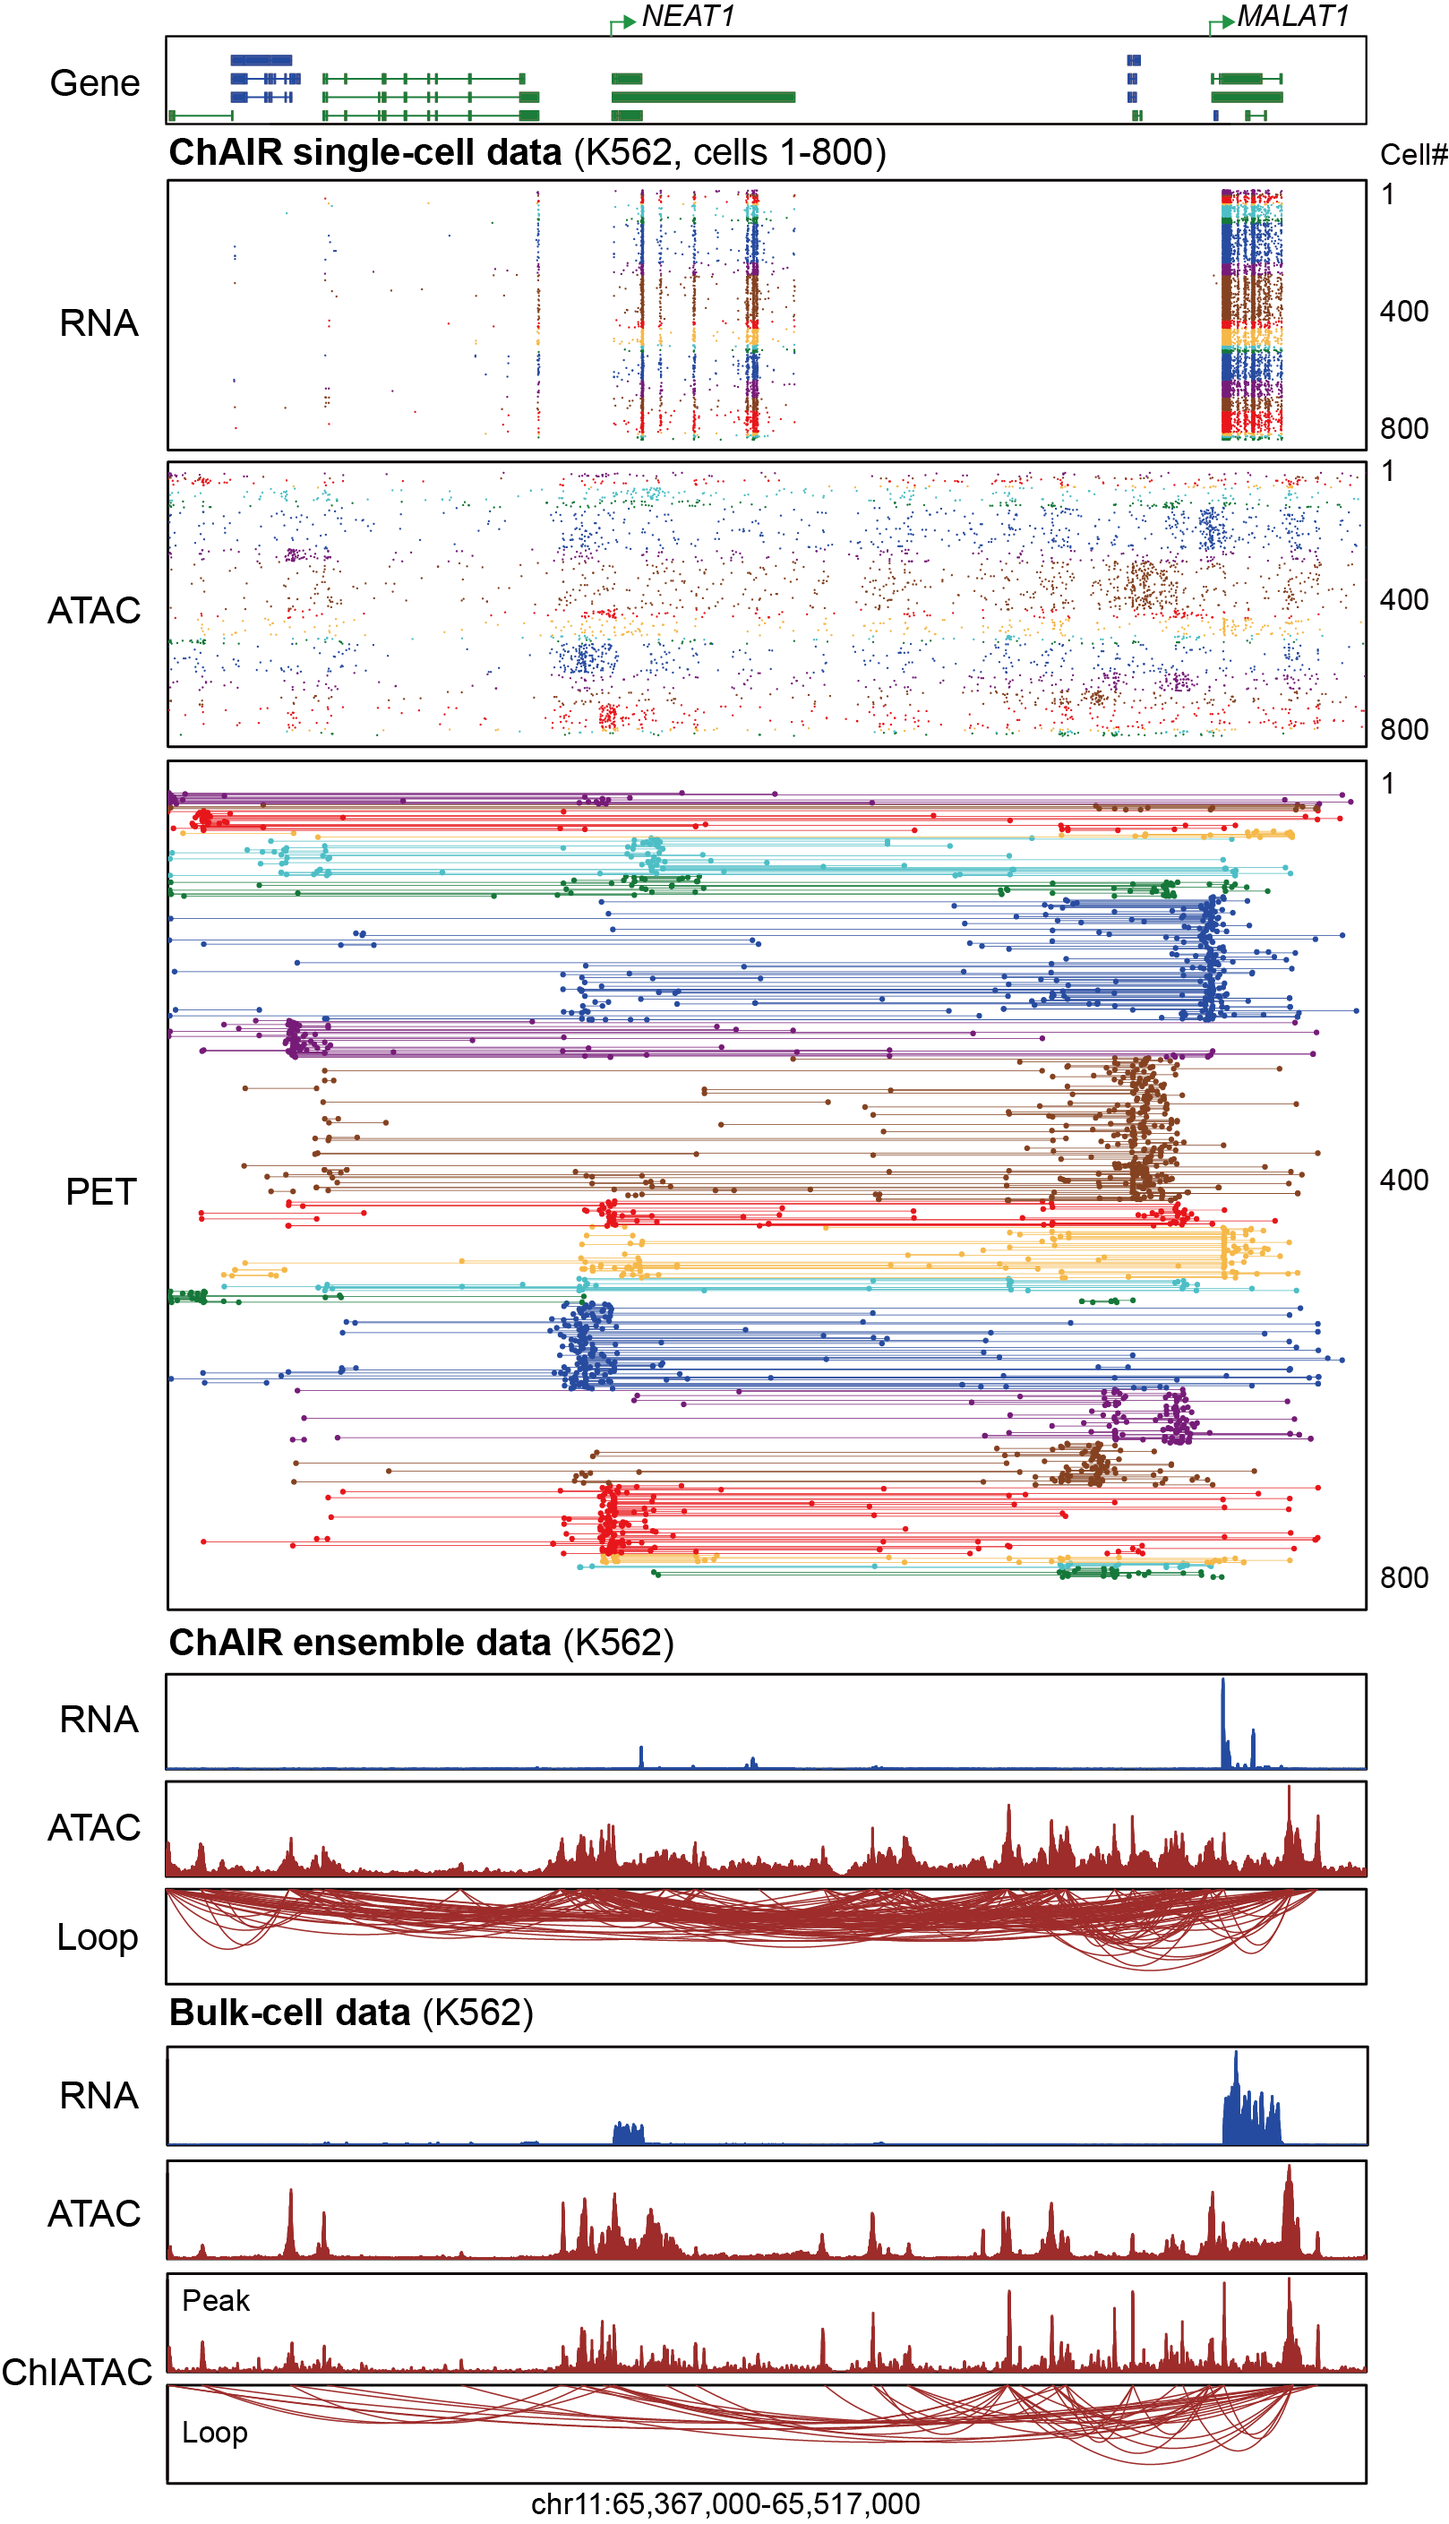
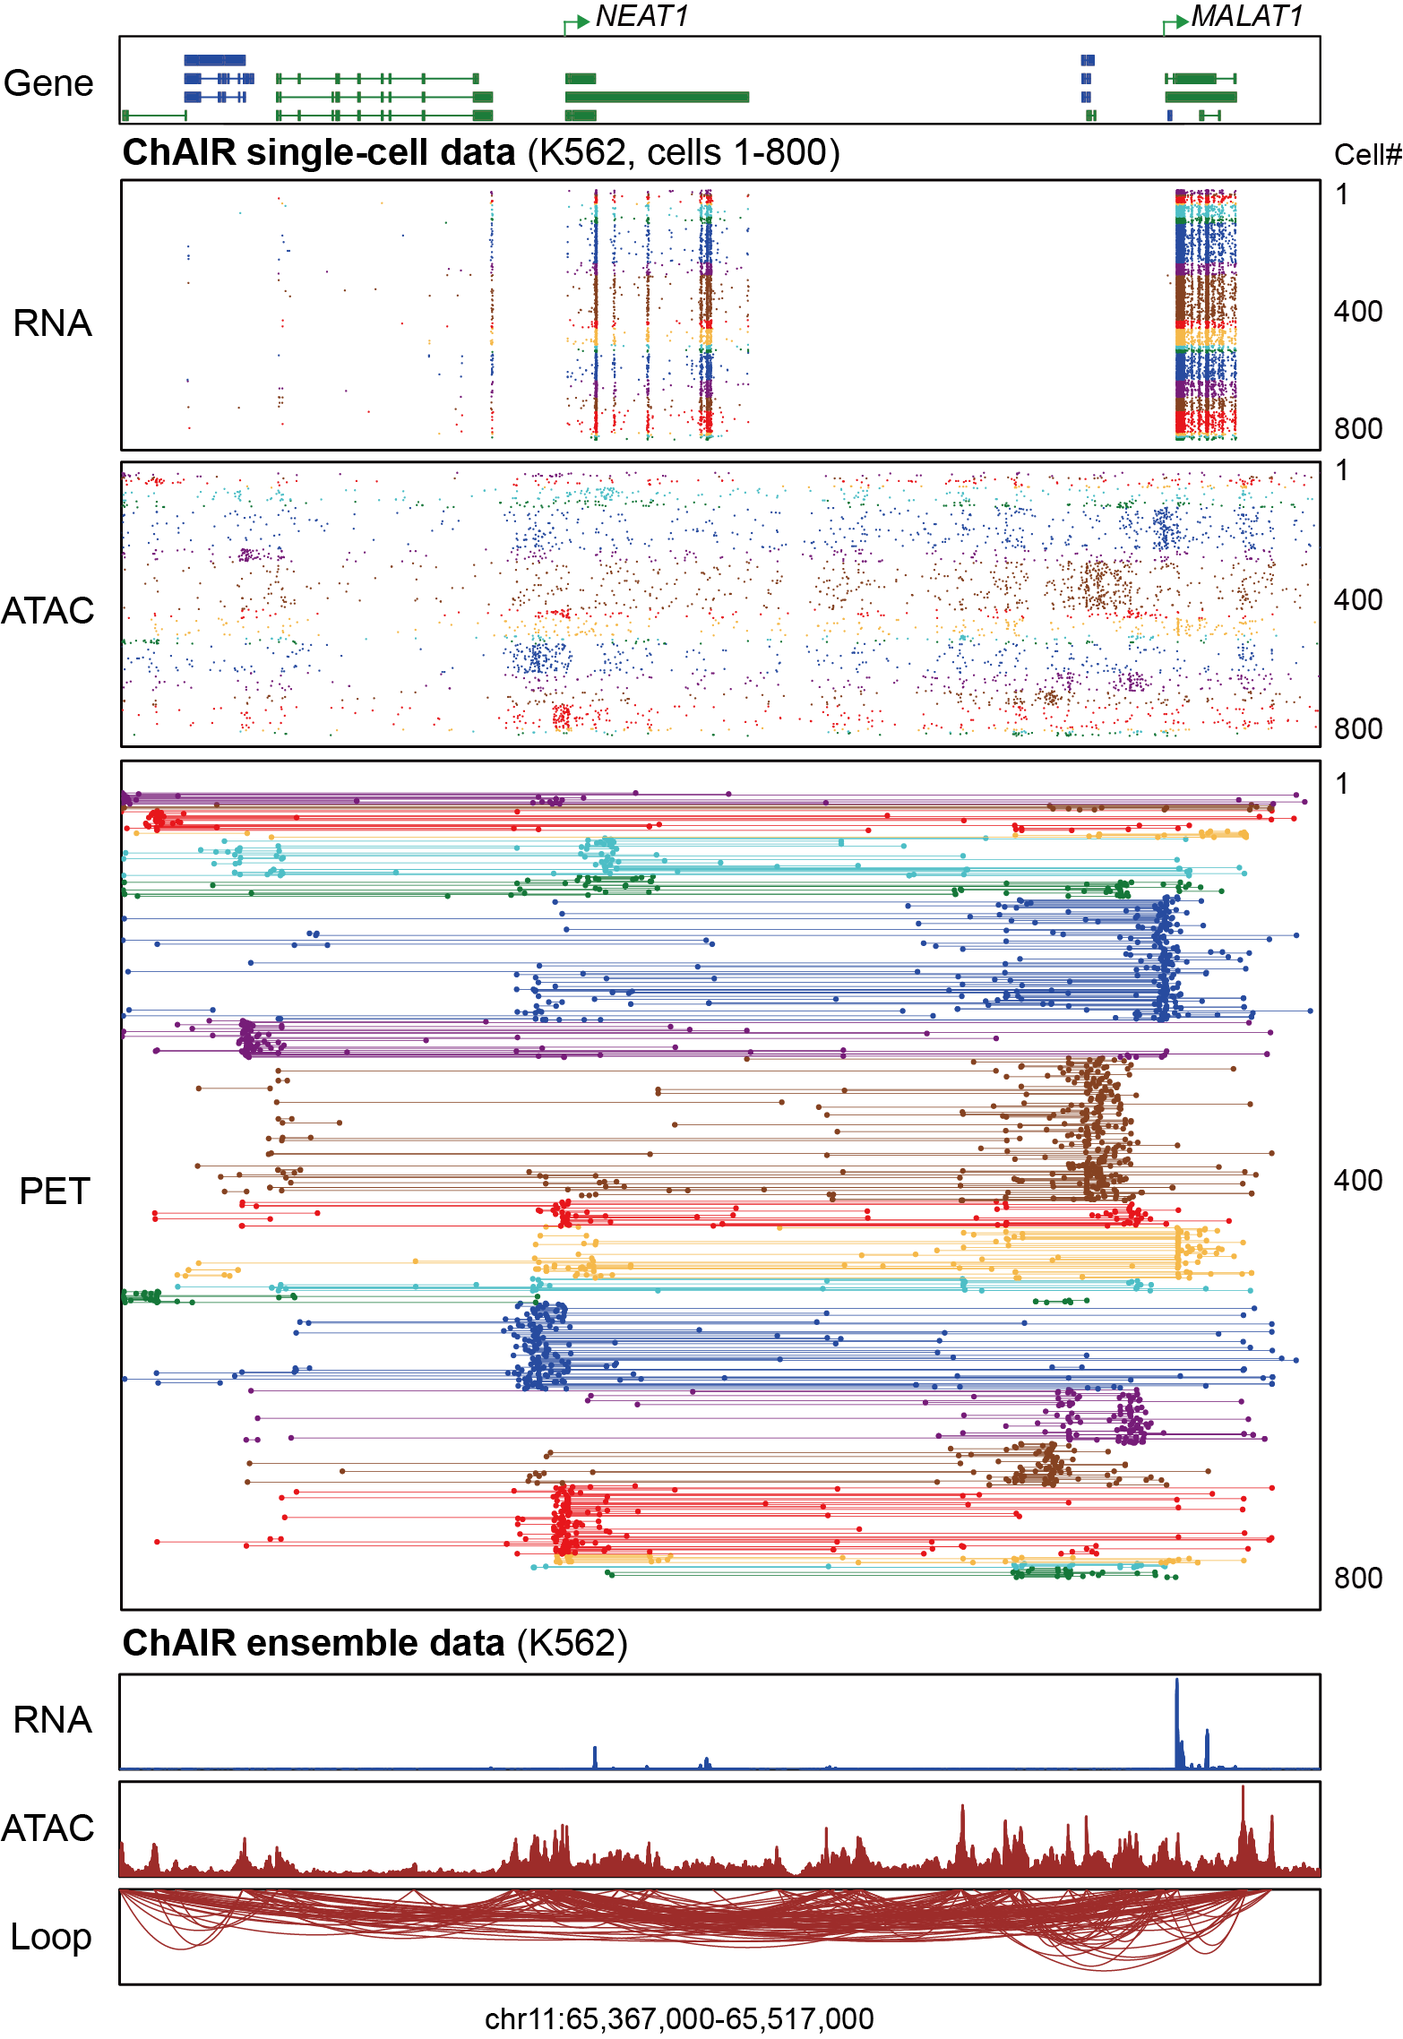
Load explicit track manifests and provide configurable Viewer plotting

diff --git a/README.md b/README.md
@@ -1,22 +1,73 @@
 # ChAIR-Viewer
-Visualization for single-cell multi-omic data
 
+ChAIR-Viewer displays aligned single-cell RNA, ATAC and PET tracks, gene annotations and ensemble RNA/ATAC coverage and chromatin loops. Cells can be ordered by PET contact profiles, RNA/ATAC signal or contact counts.
 
-ChAIR-Viewer is developped for visualization single-cell multi-omic data. For ensemble data: bedgraph file (coverage signal), bedpe file (loop), bed file (peak/chromhmm/gene annotation) and more. For single cell data: fragment file. ChAIR-Viewer provides a variety of ways to sort cell, including: sorted by RNA UMI count, sorted by ATAC fragment count, sorted by contact/PET count, sorted by maximum contact distance, ordered of hierarchical clustering (in RNA/ATAC/PET data) and more.
+## Setup
 
-ChAIR-Viewer is developped by R, some package are needed.
-```
-RColorBrewer
-pheatmap
-plotrix
-dplyr
-GenomicRanges
-ggpubr
-ggplot2
-patchwork
+```bash
+git clone -b protocol-revision-20261105 https://github.com/Chang-An2002/ChAIR-Viewer.git
+cd ChAIR-Viewer
 ```
 
-# USAGE
+Use the `chair-r` R environment prepared in the [ChAIR-PIPE installation instructions](https://github.com/Chang-An2002/ChAIR-PIPE/tree/protocol-revision-20261105#installation). The Viewer uses RColorBrewer, pheatmap, plotrix, dplyr and GenomicRanges.
+
+## Prepare inputs
+
+For a completed ChAIR-PIPE analysis, run its `codes/prepare_viewer_inputs.sh` script. It creates a directory containing the following files and an `inputs.tsv` manifest:
+
+| Track key | File/format |
+| --- | --- |
+| `genes` | Eight columns: chrom, start, end, transcript, gene, score, strand, feature type |
+| `rna`, `atac` | Five columns: chrom, start, end, barcode, count |
+| `pet` | Eleven columns: chrom1, start1, end1, chrom2, start2, end2, barcode, readID, score, strand1, strand2 |
+| `peaks` | Three columns: chrom, start, end |
+| `rna_rpkm`, `atac_rpkm` | Four-column RPKM bedGraph: chrom, start, end, value |
+| `loops` | Ten columns: chrom1, start1, end1, chrom2, start2, end2, count, anchor1 coverage, anchor2 coverage, VC_sqrt score |
+| `chromstat` (optional) | Nine-column chromatin-state BED including itemRgb |
+
+`inputs.example.tsv` shows the manifest structure. The first line is `track<TAB>path`; relative paths are resolved from the manifest directory. Plain and gzip-compressed tables are supported. RNA, ATAC and PET use matching cell barcodes and the same genome assembly. Ensemble tracks describe the sample-level aggregate signal.
+
+## Load the manifest
+
+```bash
+conda run --no-capture-output -n chair-r Rscript readInfo.R \
+  --manifest /data/viewer/K562/inputs.tsv /data/viewer/K562/K562.all.data.RData
+```
+
+The command saves the objects used by `loadData()` and `run()` in one RData file. The manifest supplies the sample file paths directly.
+
+## Plot the K562 example region
+
+```bash
+conda run --no-capture-output -n chair-r Rscript plotData.R \
+  /data/viewer/K562/K562.all.data.RData \
+  chr11:65367000-65517000 \
+  /data/viewer/K562/K562.NEAT1_MALAT1.pdf \
+  800 3 0.001
+```
+
+The last three arguments are the displayed cell count, minimum ensemble-loop contact count and minimum VC_sqrt score. Their defaults are 800, 3 and 0.001. The plotting entry uses PET-profile hierarchical clustering and selects cells with RNA, ATAC and PET signals in the requested region. PDF output includes a CSV of the displayed cell order beside the figure. A `.png` output extension selects PNG format.
+
+Advanced plotting options are available through `loadData()` and `run()` in `source.r`.
+
+## K562 example
+
+![K562 single-cell and ensemble ChAIR tracks](img/K562_Viewer_example.png)
+
+A browser-based visualization of K562 ChAIR single-cell tracks and ensemble ChAIR data.
+The genes in green are oriented in the 5′-3′ direction, while the genes in blue are in the 3′-5′ direction. The top 800 cells of single-cell data with the most chromatin contacts and also with all three modalities available within the displayed region are visualized. The cells were sorted in order based on the hierarchical clustering of the ChAIR-PET data. The color assigned to each cluster is for distinguishing nearby clusters.
+
+<details>
+<summary>Legacy filename-based input preparation</summary>
+
+The three-argument reader remains available for existing datasets:
+
+```bash
+Rscript readInfo.R genes.bed SAMPLE chromatin_states.bed
+```
+
+Filename-based reader conventions and annotation commands:
+
 #### 1. Only the two longest and two exon most transcripts are retained (Convenient output of gene annotation track) (Optional)
 ```
 python getMaxlengthRNA.py ~/cellranger-7.1.0/genome/refdata-gex-mm10-2020-A/genes/genes.gtf | grep -v "^#" | awk '$3=="exon" || $3=="UTR"'|perl -lane '$id="#";$id=$1 if(/transcript_id "(.+?)"/);$name="#"; $name=$1 if(/gene_name "(.+?)"/); print "$F[0]\t".($F[3]-1)."\t$F[4]\t$id\t$name\t0\t$F[6]\t$F[2]"' > mm10.genome.max.bed
@@ -53,18 +104,12 @@ mouseBrain.clean.dup.GEX.mouseBrain.fragments.unsorted.tsv|scRNA (contain mapped
 
 #### 3. plot
 ```
-Rscript plotData.R
+Rscript plotData.R alldata/mouseBrain.mouseBrain.chr19.data.RData chr19:5500000-6500000 mouseBrain.Viewer.pdf
 ```
 
-#### 4. The ChAIR-viewer version of shiny is will be finished soon. 
+</details>
 
+## Contact
 
-## K562 example
-
-![K562 single-cell and ensemble ChAIR tracks](img/K562_Viewer_example.png)
-
-A browser-based visualization of K562 ChAIR single-cell tracks, ensemble ChAIR data and bulk-cell RNA-seq, ATAC-seq and ChIATAC data. The genes in green are oriented in the 5′-3′ direction, while the genes in blue are in the 3′-5′ direction. The top 800 cells of single-cell data with the most chromatin contacts and also with all three modalities available within the displayed region are visualized. The cells were sorted in order based on the hierarchical clustering of the ChAIR-PET data. The color assigned to each cluster is for distinguishing nearby clusters.
-
-# CONTACT
-黄加祥 (Jiaxiang Huang, 12207142@zju.edu.cn)<br/>
-黄星宇 (Xingyu Huang, xingyu.huang@zju.edu.cn/huang182@live.cn)<br/>
+黄加祥 (Jiaxiang Huang, 12207142@zju.edu.cn)  
+黄星宇 (Xingyu Huang, xingyu.huang@zju.edu.cn/huang182@live.cn)
